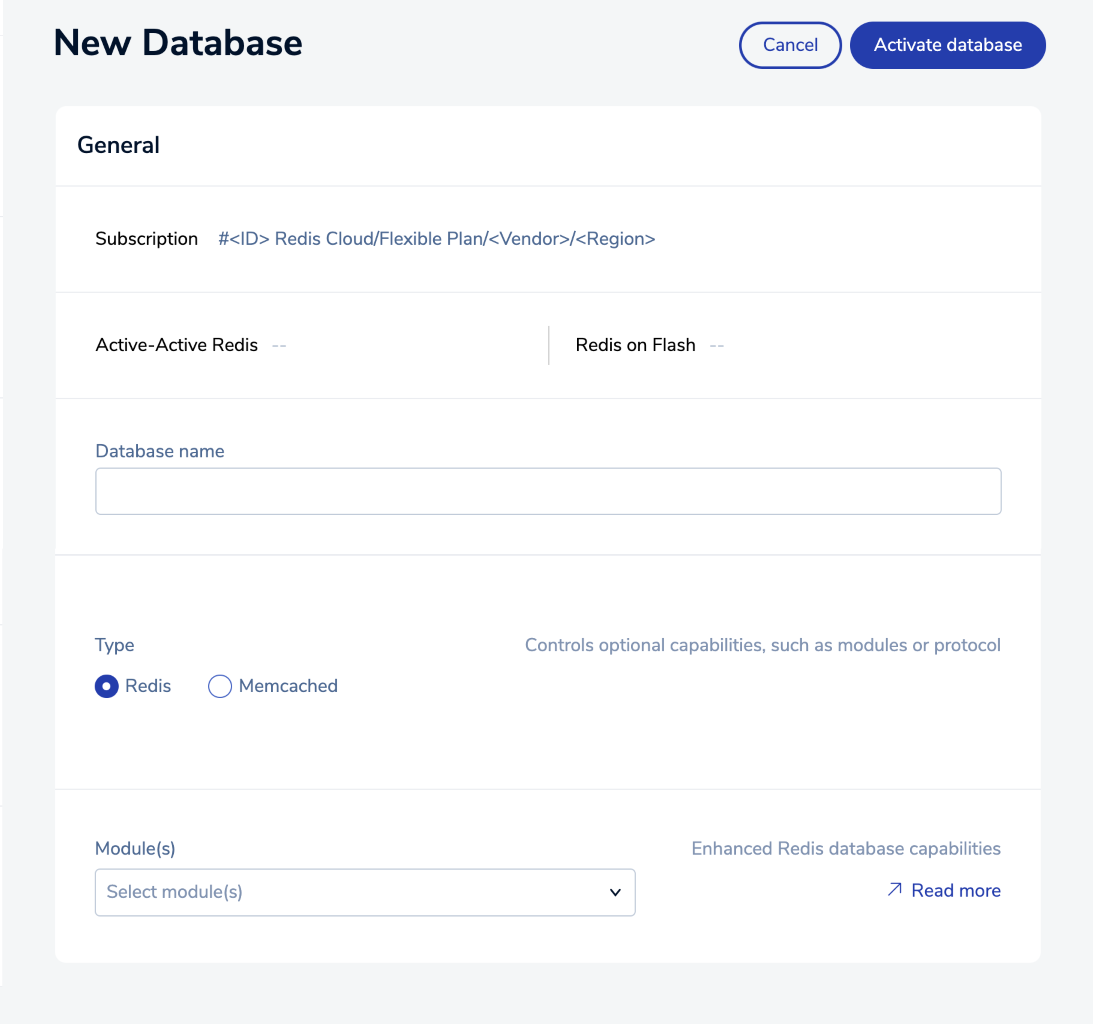
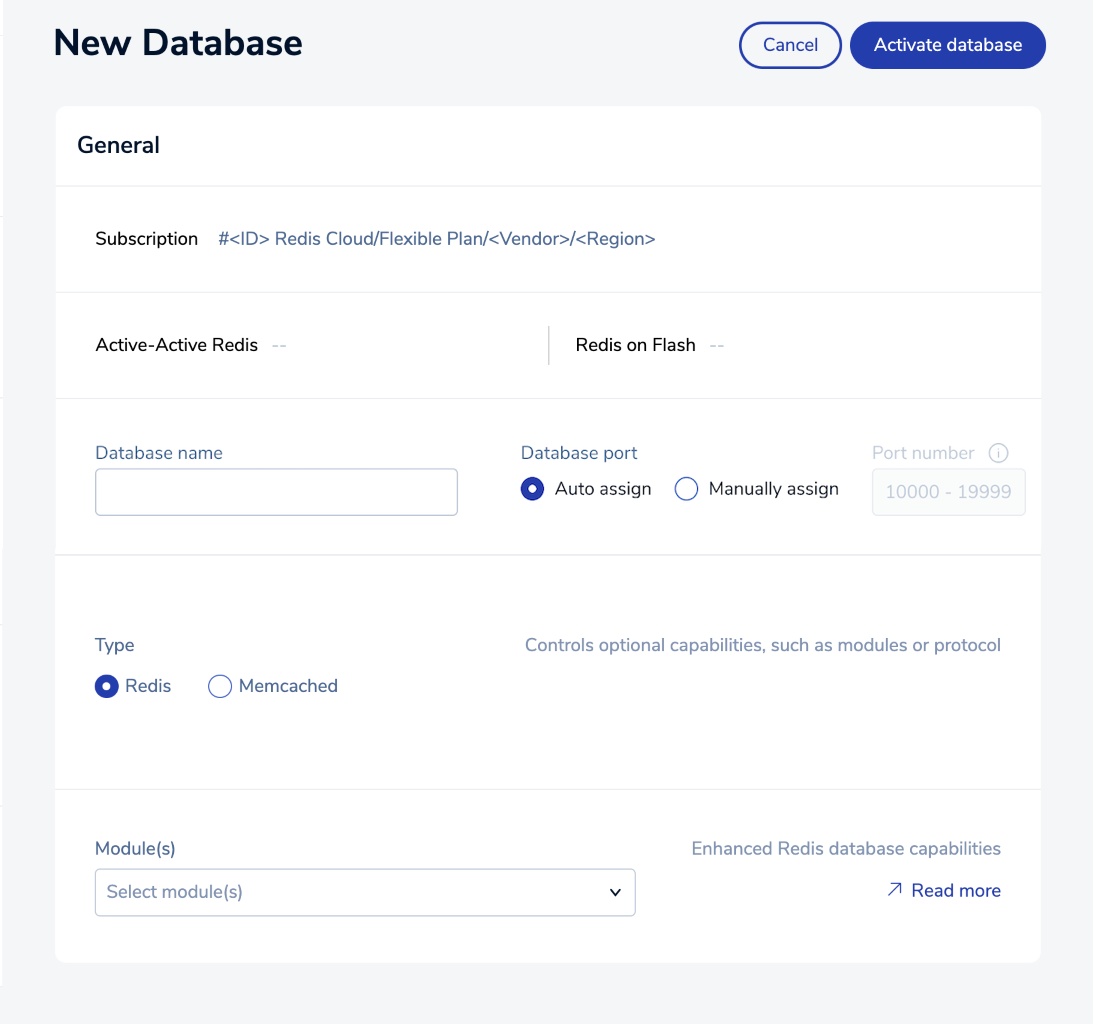
RC: Custom ports for flexible subscriptions

diff --git a/content/rc/databases/create-database.md b/content/rc/databases/create-database.md
@@ -43,9 +43,19 @@ The available settings vary according to your subscription plan:
 | **Subscription** | Read-only description of your subscription plan, including cloud provider and region |
 | **Active-Active Redis** | Checked when the subscription supports Active-Active databases (_coming soon; Flexible or Annual subscriptions only_) |
 | **Redis on Flash** | Checked when the subscription supports Redis on Flash (_Flexible or Annual subscriptions only_) |
-| **Database Name** | A name for your database (_required_) |
+| **Database name** | A name for your database (_required_) |
+| **Database port** | Automatically or manually assigns a database port (range: 10000-19999) (_Flexible or Annual subscriptions only_) |
 | **Type**  | Controls optional capabilities, such as modules or protocol.  Supported values include _[Redis Stack](https://redis.io/docs/stack/)_ (available only for Fixed and Free), _Redis_ (default for Flexible and Annual subscriptions), and _Memcached_ |
 | **Modules** | Extend core Redis functionality using [modules]({{<relref "modules/">}}).  Redis Enterprise Cloud supports selected modules; for details, see [Redis Enterprise module support]({{<relref "modules/enterprise-capabilities#redis-enterprise-module-support">}}) |
+
+### Database port
+
+All subscriptions automatically assign a database port by default.
+
+Flexible (and Annual) subscriptions let you choose between two options:
+
+- **Auto assign** automatically assigns a port number during database creation.
+- **Manually assign** lets you enter a custom port number between 10000 and 19999. You cannot assign a port that is reserved or already in use.
 
 ### Modules
 
